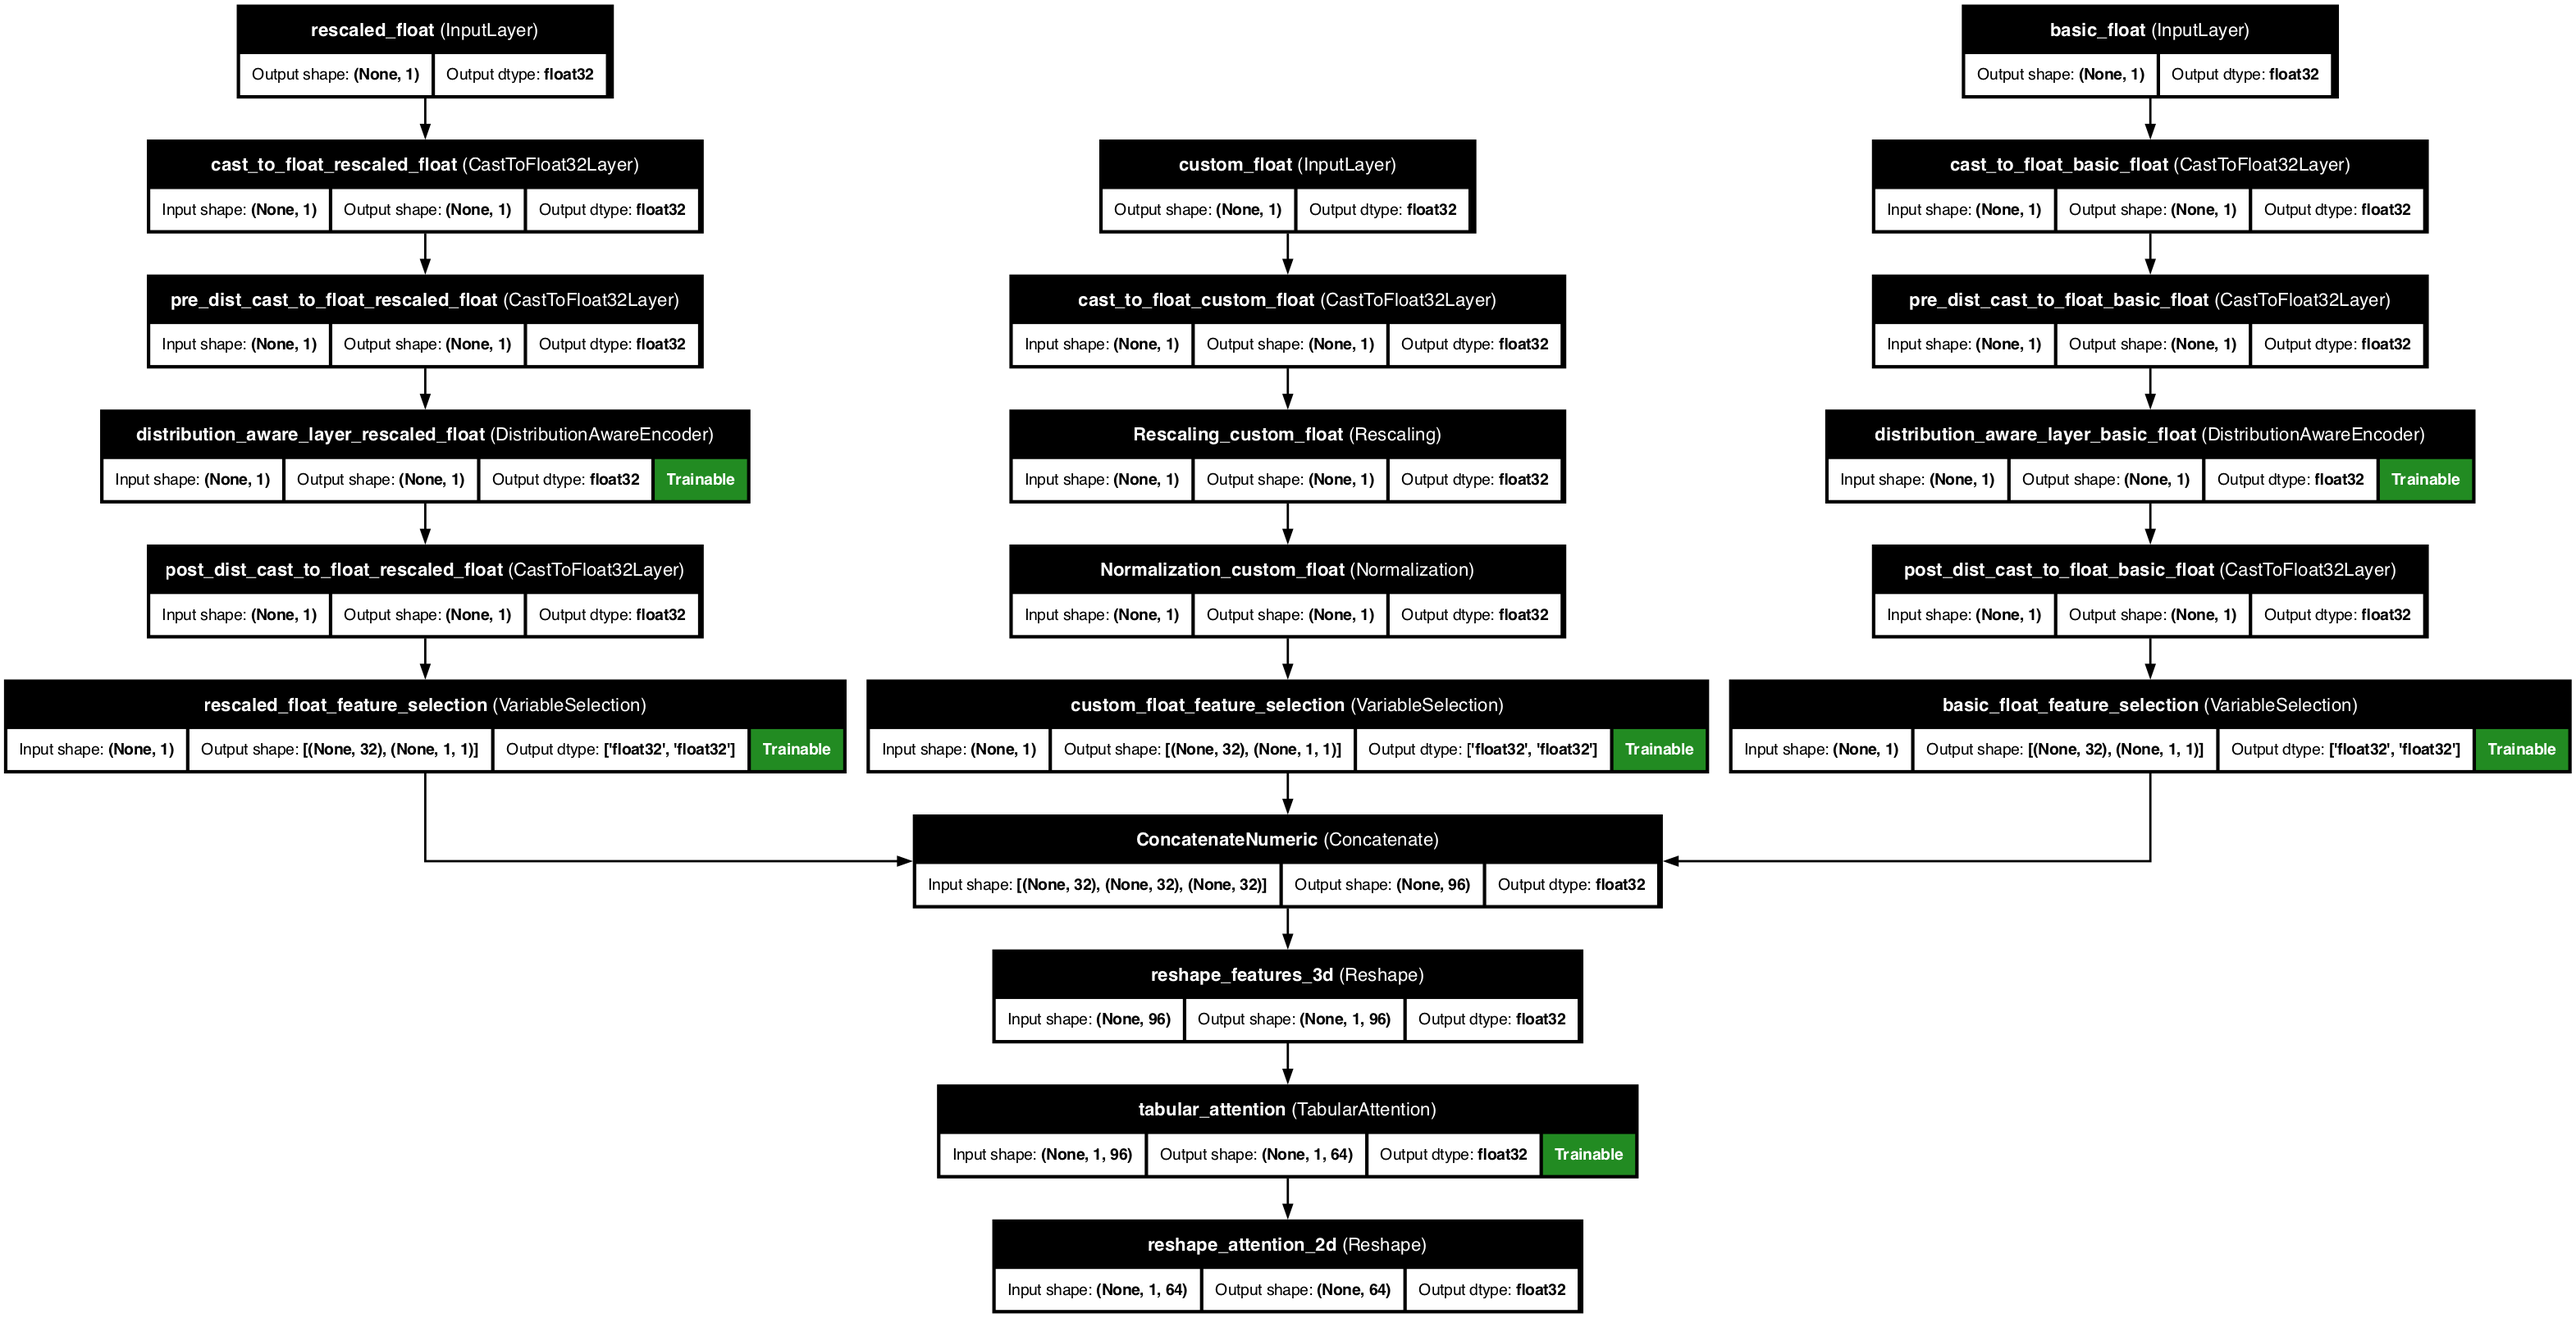
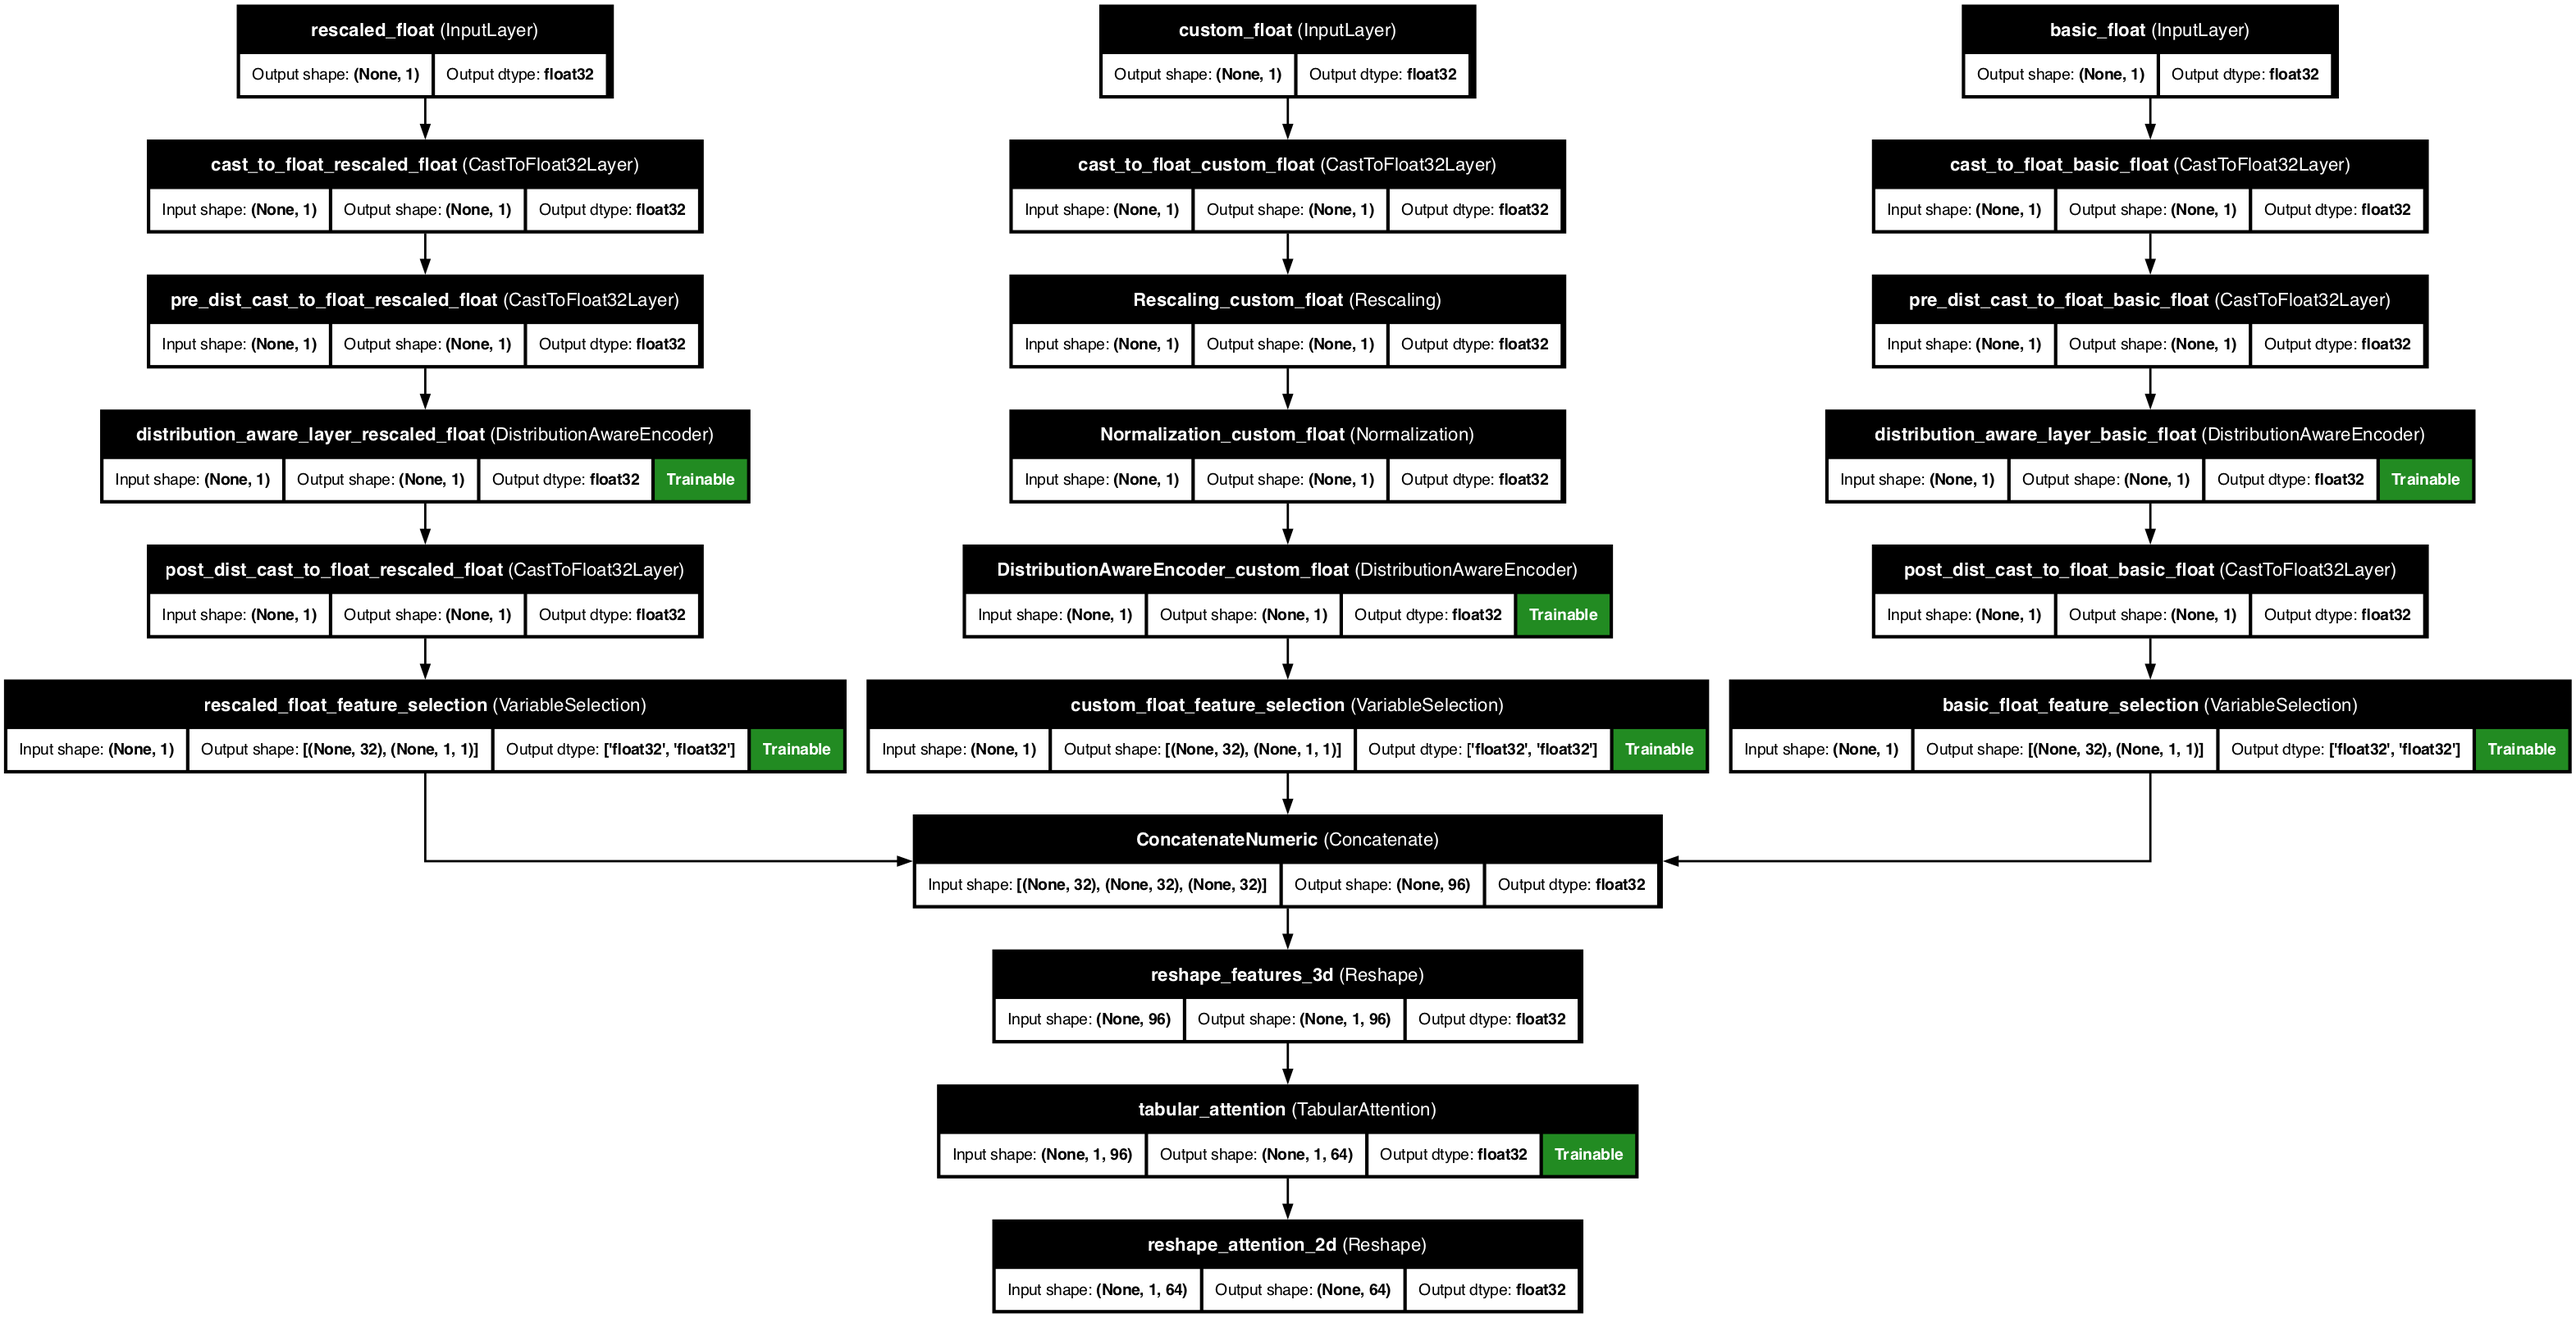
fix(KDP): added a missing code for the example for disttribution aware layer for custom pipelines

diff --git a/docs/example_usages.md b/docs/example_usages.md
@@ -298,6 +298,8 @@ However we can also manually set the prefered distribution for each numerical fe
 ```python
 from kdp.features import NumericalFeature, FeatureType
 from kdp.processor import PreprocessingModel, OutputModeOptions
+from kdp.custom_layers import DistributionAwareEncoder
+
 
 # Define features
 features = {
@@ -321,6 +323,7 @@ features = {
         preprocessors=[
             tf.keras.layers.Rescaling,
             tf.keras.layers.Normalization,
+            DistributionAwareEncoder,
         ],
         bin_boundaries=[0.0, 1.0, 2.0],
         mean=0.0,
